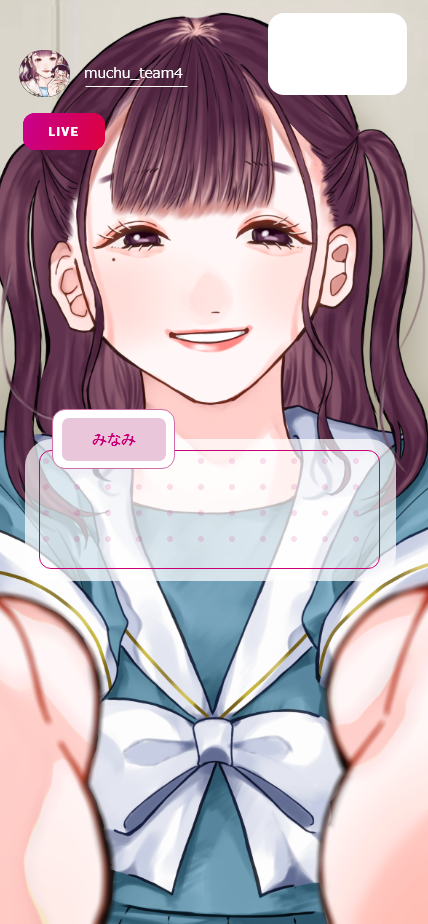
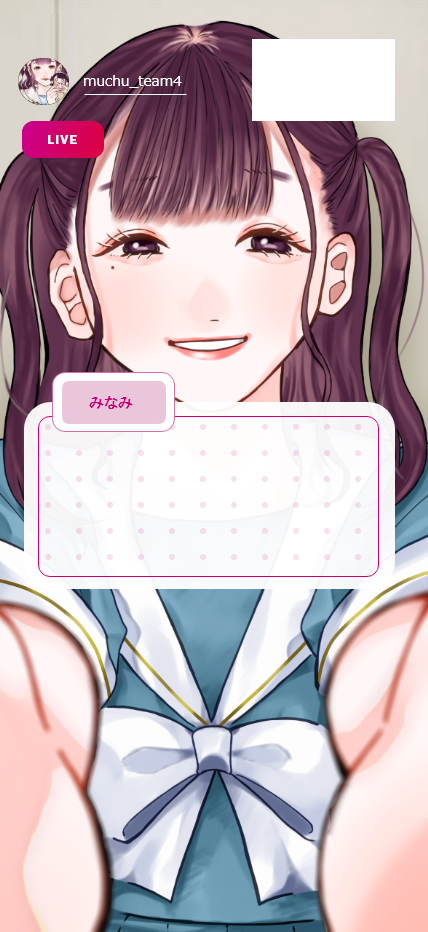
写真の透明度上げた

diff --git a/quiz2.css b/quiz2.css
@@ -1,5 +1,5 @@
 body{
-    background-image: url('img/game2.png');
+    background-image: url('img/quiz2.png');
     background-repeat: no-repeat;
     max-width: 100%;
     height: auto;
@@ -71,7 +71,7 @@ div#groupname2{
 div#sentaku1{
     position:absolute;
     text-align: center;
-		top: 35px;
+		top: 31px;
 		left:0px;
     font-size: 18px;
     width:160px;
@@ -89,7 +89,7 @@ div#sentaku1{
 div#sentaku2{
     position:absolute;
     text-align: center;
-		top: 35px;
+		top: 31px;
 		left:0px;
     font-size: 18px;
     width:160px;
@@ -100,7 +100,7 @@ div#sentaku2{
 div#sentaku3{
     position:absolute;
     text-align: center;
-		top: 35px;
+		top: 31px;
 		left:0px;
     font-size: 18px;
     width:160px;
@@ -111,7 +111,7 @@ div#sentaku3{
 div#sentaku4{
     position:absolute;
     text-align: center;
-		top: 35px;
+		top: 31px;
 		left:0px;
     font-size: 18px;
     width:160px;

diff --git a/home.html b/home.html
@@ -2,7 +2,7 @@
 <html lang="ja">
   <head>
     <meta charset="utf-8">
-    <meta name="viewport" content="width=device-width, initial-scale=1.0">
+    <!--<meta name="viewport" content="width=device-width, initial-scale=1.0"> -->
     <title>スタート</title>
       <link rel="stylesheet" href="home.css" type="text/css" />
 
